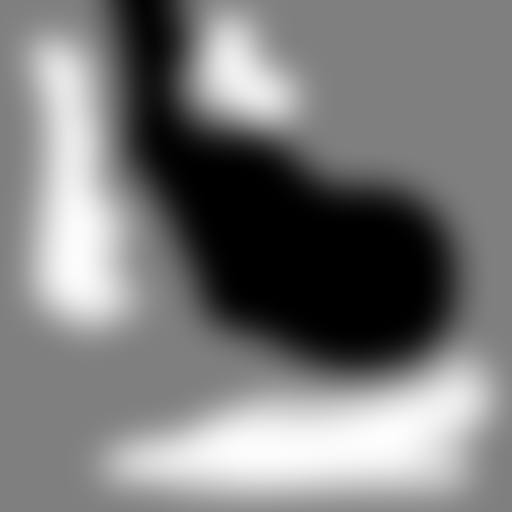
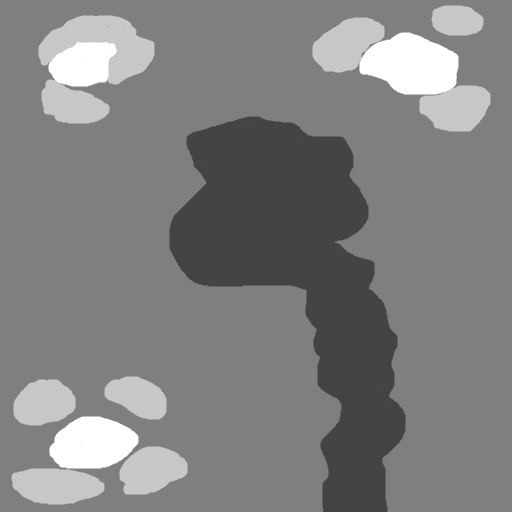
Mapa texturado with error en shader

diff --git a/Tp/src/mapa.js b/Tp/src/mapa.js
@@ -1,15 +1,57 @@
 import * as THREE from 'three';
-import { materials } from './material';
+
 import { ElevationGeometry } from '../geometrias/elevationGeometry.js';
 
-export function construirTerreno(width, height, texture) {
-	// PASTO
-	const amplitude = 3;
-	const widthSegments = 100;
-	const heightSegments = 100;
-	const geoTerreno = ElevationGeometry(width, height, amplitude, widthSegments, heightSegments, texture);
+export function construirTerreno(width, height, textures) {
+	const {
+		tierra1,
+		tierra2,
+		pasto1,
+		pasto2,
+		pasto3,
+		pasto4,
+		arena,
+		tierraCostaSeca,
+		tierraCostaMojada,
+		agua1,
+		agua2,
+		elevationMap,
+	} = textures;
 
-	const terreno = new THREE.Mesh(geoTerreno, materials['pasto']);
+	// PASTO
+	const amplitude = 8;
+	const widthSegments = 350;
+	const heightSegments = 350;
+	const geoTerreno = ElevationGeometry(width, height, amplitude, widthSegments, heightSegments, elevationMap.object);
+
+	const material = new THREE.RawShaderMaterial({
+		uniforms: {
+			tierra1Sampler: { type: 't', value: tierra1.object },
+			tierra2Sampler: { type: 't', value: tierra2.object },
+			pasto1Sampler: { type: 't', value: pasto1.object },
+			pasto2Sampler: { type: 't', value: pasto2.object },
+			pasto3Sampler: { type: 't', value: pasto3.object },
+			pasto4Sampler: { type: 't', value: pasto4.object },
+			arenaSampler: { type: 't', value: arena.object },
+			tierraCostaSecaSampler: { type: 't', value: tierraCostaSeca.object },
+			tierraCostaMojadaSampler: { type: 't', value: tierraCostaMojada.object },
+			agua1Sampler: { type: 't', value: agua1.object },
+			agua2Sampler: { type: 't', value: agua2.object },
+			worldNormalMatrix: { type: 'm4', value: null },
+		},
+		vertexShader: vertexShader,
+		fragmentShader: fragmentShader,
+		side: THREE.DoubleSide,
+	});
+
+	const terreno = new THREE.Mesh(geoTerreno, material);
+
+	material.needsUpdate = true;
+	material.onBeforeRender = (renderer, scene, camera, geometry, mesh) => {
+		let m = mesh.matrixWorld.clone();
+		m = m.transpose().invert();
+		mesh.material.uniforms.worldNormalMatrix.value = m;
+	};
 
 	return terreno;
 }
@@ -22,3 +64,110 @@ export function construirAgua(width, height) {
 
 	return agua;
 }
+
+const vertexShader = `    
+    precision highp float;
+
+    // Atributos de los vértices
+    attribute vec3 position; 	
+    attribute vec3 normal; 	
+    attribute vec2 uv;		 	
+
+    // Uniforms
+    uniform mat4 modelMatrix;		// Matriz de transformación del objeto
+    uniform mat4 worldNormalMatrix;	// Matriz de normales
+    uniform mat4 viewMatrix;		// Matriz de transformación de la cámara
+    uniform mat4 projectionMatrix;	// Matriz de proyección de la cámara
+
+    // Varying
+    varying vec2 vUv;	    // Coordenadas de textura que se pasan al fragment shader
+    varying vec3 vNormal;	// Normal del vértice que se pasa al fragment shader
+    varying vec3 vWorldPos;	// Posición del vértice en el espacio  de mundo
+
+    void main() {
+        
+        // Lee la posición del vértice desde los atributos
+
+        vec3 pos = position;	
+
+        // Se calcula la posición final del vértice
+        // Se aplica la transformación del objeto, la de la cámara y la de proyección
+
+        gl_Position = projectionMatrix * viewMatrix * modelMatrix * vec4(pos, 1.0);
+
+        // Se pasan las coordenadas de textura al fragment shader
+        vUv = uv;
+        vNormal = normalize(vec3(worldNormalMatrix * vec4(normal, 0.0)));
+        vWorldPos = (modelMatrix * vec4(pos, 1.0)).xyz;
+    }
+`;
+
+const fragmentShader = `
+    precision mediump float;
+    varying vec2 vUv;
+    varying vec3 vNormal;
+    varying vec3 vWorldPos;
+
+	uniform sampler2D tierra1Sampler;
+	uniform sampler2D tierra2Sampler;
+	uniform sampler2D pasto1Sampler;
+	uniform sampler2D pasto2Sampler;
+	uniform sampler2D pasto3Sampler;
+	uniform sampler2D pasto4Sampler;
+	uniform sampler2D arenaSampler;
+	uniform sampler2D tierraCostaSecaSampler;
+	uniform sampler2D tierraCostaMojadaSampler;
+	uniform sampler2D agua1Sampler;
+	uniform sampler2D agua2Sampler;
+
+    void main(void) {
+        vec2 uv=vUv*8.0;
+
+        vec3 tierra1=texture2D(tierra1Sampler,uv).xyz;
+        vec3 tierra2=texture2D(tierra2Sampler,uv).xyz;
+
+		vec3 pasto1=texture2D(pasto1Sampler,uv).xyz;
+		vec3 pasto2=texture2D(pasto2Sampler,uv).xyz;
+		vec3 pasto3=texture2D(pasto3Sampler,uv).xyz;
+		vec3 pasto4=texture2D(pasto4Sampler,uv).xyz;
+
+		vec3 arena=texture2D(arenaSampler,uv).xyz;
+		vec3 tierraCostaSeca=texture2D(tierraCostaSecaSampler,uv).xyz;
+		vec3 tierraCostaMojada=texture2D(tierraCostaMojadaSampler,uv).xyz;
+
+		vec3 agua1=texture2D(agua1Sampler,uv).xyz;
+		vec3 agua2=texture2D(agua2Sampler,uv).xyz;
+
+        // La tierra seca en zonas altas
+        float erosionFactor=smoothstep(2.6,3,vWorldPos.y);
+
+		// Factor de Costa
+        float arenaTierraFactor=smoothstep(0,0.4,vWorldPos.y);
+        float arenaFactor=smoothstep(-0.4,0,vWorldPos.y);
+
+		// El agua en zonas bajas
+        float aguaFactor=smoothstep(-3,0,vWorldPos.y);
+
+        // mezcla de tierras
+        vec3 tierras=mix(tierra1,tierra2,erosionFactor);
+
+        // mezcla de pastos
+        vec3 pastos1=mix(pasto1,pasto4,0.4);
+        vec3 pastos2=mix(pasto2,pasto3,0.2);
+		vec3 pastos=mix(pastos1,pastos2,0.5);
+
+		// mezcla costa
+		vec3 costa2=mix(tierraCostaSeca,tierraCostaMojada,arenaTierraFactor);
+		vec3 arenaTierras=mix(arena,costa2,arenaFactor);
+
+		// agua
+		vec3 agua=mix(agua1,agua2,aguaFactor);
+        
+        // mezclar elementos
+		vec3 grassDirt=mix(pastos,tierras,0.5);
+		vec3 grassDirtRock=mix(grassDirt,arenaTierras,0.5);
+		vec3 grassDirtRockWater=mix(grassDirtRock,agua,0.5);
+
+        gl_FragColor = vec4(grassDirtRockWater,1.0);	
+    }
+    `;

diff --git a/Tp/src/sceneManager.js b/Tp/src/sceneManager.js
@@ -1,6 +1,6 @@
 import * as THREE from 'three';
 import { loadModels } from './loader.js';
-import { construirAgua, construirTerreno } from './mapa.js';
+import { construirTerreno } from './mapa.js';
 
 const ADD_HELPERS = false;
 
@@ -15,7 +15,20 @@ export class SceneManager {
 	camaraPasajero;
 	camaraConductor;
 
-	textureMap;
+	textures = {
+		tierra1: { url: 'tierra1.jpg', object: null },
+		tierra2: { url: 'tierra2.jpg', object: null },
+		pasto1: { url: 'pasto1.jpg', object: null },
+		pasto2: { url: 'pasto2.jpg', object: null },
+		pasto3: { url: 'pasto3.jpg', object: null },
+		pasto4: { url: 'pasto4.jpg', object: null },
+		arena: { url: 'arena.jpg', object: null },
+		tierraCostaSeca: { url: 'tierraCostaSeca.jpg', object: null },
+		tierraCostaMojada: { url: 'tierraCostaMojada.jpg', object: null },
+		agua1: { url: 'agua1.jpg', object: null },
+		agua2: { url: 'agua2.jpg', object: null },
+		elevationMap: { url: 'elevationMap1.png', object: null },
+	};
 
 	objetos = {};
 
@@ -43,17 +56,10 @@ export class SceneManager {
 
 	prepareScene() {
 		console.log('texture laoadead');
-		const mapa = construirTerreno(20, 20, this.textureMap);
+		const mapa = construirTerreno(50, 50, this.textures);
 		this.scene.add(mapa);
 
-		const agua = construirAgua(20, 20);
-		this.scene.add(agua);
-
 		this.objetos['mapa'] = mapa;
-		this.objetos['agua'] = agua;
-		/* loadModels(modelPaths, (models) => {
-			this.ready = true;
-		}); */
 
 		this.ready = true;
 	}
@@ -91,7 +97,6 @@ export class SceneManager {
 	animate(params) {
 		if (!this.ready) return;
 
-		this.objetos['agua'].position.y = params.alturaAgua;
 		/*
 		 params contiene:
 			posicionSobreRecorrido
@@ -126,18 +131,25 @@ export class SceneManager {
 	}
 
 	loadTextures() {
-		this.textureMap = new THREE.TextureLoader().load(
-			'../maps/elevationMap.png',
-			() => this.prepareScene(),
-			function (xhr) {
-				// The texture is being loaded
-				console.log((xhr.loaded / xhr.total) * 100 + '% loaded');
-			},
-			function (error) {
-				// The texture was not loaded
-				console.log('An error happened');
-				console.log(error);
-			}
-		);
+		const loadingManager = new THREE.LoadingManager();
+
+		loadingManager.onLoad = () => {
+			console.log('All textures loaded');
+			this.prepareScene();
+		};
+
+		for (const key in this.textures) {
+			const loader = new THREE.TextureLoader(loadingManager);
+			const texture = this.textures[key];
+			texture.object = loader.load('maps/' + texture.url, this.onTextureLoaded.bind(this, key), null, (error) => {
+				console.error('Error loading texture', key);
+				console.error(error);
+			});
+		}
+	}
+	onTextureLoaded(key, texture) {
+		texture.wrapS = texture.wrapT = THREE.RepeatWrapping;
+		this.textures[key].object = texture;
+		console.log(`Texture ${key} loaded`);
 	}
 }

diff --git a/Tp/src/main.js b/Tp/src/main.js
@@ -39,13 +39,6 @@ function setupThreeJs() {
 
 	// TODO => EVENTOS DE TECLADO
 	window.addEventListener('keydown', (event) => {
-		// evento de teclado de felcha para arriba y abajo que setee en params la altura del agua
-		if (event.key === 'ArrowUp' && params.alturaAgua < MAX_ALTURA_AGUA) {
-			params.alturaAgua += 0.1;
-		}
-		if (event.key === 'ArrowDown' && params.alturaAgua > MIN_ALTURA_AGUA) {
-			params.alturaAgua -= 0.1;
-		}
 		/* if (event.key === 'c') {
 			switch (params.camaraActual) {
 				case 'general':
